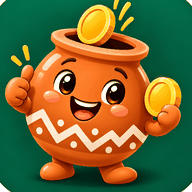
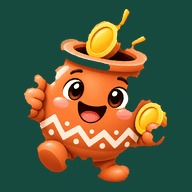
Le nouveau dessin du canari, partout dans l'appli
Le propriétaire a fourni une planche du personnage en cinq humeurs, sur un
fond dégradé. Les images de l'appli sont refaites à partir de là.

LE DÉTOURAGE. Le fond de la planche est un dégradé chaud dont le halo doré
appartient à la même famille de couleurs que la jarre : un filtre de couleur
ne sépare rien. On se sert plutôt de ce qu'un dégradé varie lentement, et que
la lueur peinte autour des pièces est floue elle aussi : on floute très fort,
on soustrait, et il ne reste que ce qui change vite, c'est-à-dire le
personnage. Le seuil suit la clarté locale (entre 11 et 18) parce que le pied
gauche du grand personnage tombe dans le coin sombre de la planche, où orange
sur brun ne creuse qu'une petite différence : un seuil unique le coupait en
deux. Le contour est enfin rogné de quatre pixels — mieux vaut mordre un
cheveu sur le dessin que garder un liseré de fond brun.

LES IMAGES. Chaque mascotte garde les proportions de son ancien cadre, donc
aucune mise en page ne bouge, sauf le héros (360 × 434 au lieu de 360 × 459,
deux attributs de hauteur corrigés dans index.html). Le personnage est mis à
l'échelle sur sa hauteur : celui qui a les bras repliés est plus étroit et
paraîtrait sinon plus grand, puisque l'appli fixe la largeur.

L'icône passe au vert de la marque #174A3F, celui du manifeste et de l'écran
de démarrage : l'icône et le démarrage sont maintenant du même vert.

LA CHAÎNE EST REPRODUCTIBLE. store/ contient la planche d'origine, les cinq
[…]

diff --git a/store/preview.html b/store/preview.html
@@ -1,0 +1,95 @@
+<!doctype html>
+<html lang="fr">
+<head>
+<meta charset="utf-8">
+<title>Visuels de la fiche Play Store</title>
+<!-- Sert à fabriquer store/banniere-1024x500.png et store/capture-1..5.png
+     à partir des captures brutes store/ecran-*.png. Ne fait pas partie de l'appli. -->
+<style>
+  /* Les polices de l'appli, celles du dossier « polices » : pas d'internet ici. */
+  @font-face { font-family: "Fredoka"; src: url("../app/polices/fredoka.woff2") format("woff2"); font-weight: 300 700; }
+  @font-face { font-family: "Rubik"; src: url("../app/polices/rubik.woff2") format("woff2"); font-weight: 300 900; }
+  :root {
+    --olive-700: #4E5B39;
+    --olive-900: #2F3823;
+    --ivoire: #FBF8F1;
+    --sable: #F2EDE1;
+    --ocre-600: #A96F3E;
+  }
+  * { box-sizing: border-box; margin: 0; }
+  body { background: #777; padding: 24px; display: flex; flex-direction: column; gap: 24px; align-items: flex-start; }
+
+  /* La bannière du haut de la fiche : 1024 × 500. */
+  #banniere {
+    width: 1024px; height: 500px;
+    background: var(--olive-700);
+    display: flex; align-items: center; gap: 48px;
+    padding: 0 72px;
+    overflow: hidden; position: relative;
+  }
+  #banniere::before {
+    content: ""; position: absolute; inset: 0;
+    background-image: radial-gradient(circle at 78% 22%, rgba(176, 138, 78, .35), transparent 55%);
+  }
+  #banniere img { width: 260px; height: auto; position: relative; filter: drop-shadow(0 16px 30px rgba(0, 0, 0, .35)); }
+  .b-texte { position: relative; color: var(--ivoire); }
+  .b-nom { font-family: "Fredoka", sans-serif; font-weight: 600; font-size: 104px; line-height: 1; }
+  .b-slogan { font-family: "Fredoka", sans-serif; font-weight: 500; font-size: 44px; color: #E9C98A; margin-top: 10px; }
+  .b-sous { font-family: "Rubik", sans-serif; font-size: 30px; margin-top: 22px; line-height: 1.4; opacity: .95; }
+
+  /* Les captures : 1080 × 1920, bandeau de titre puis l'écran de l'appli. */
+  .slide {
+    width: 1080px; height: 1920px;
+    background: var(--sable);
+    display: flex; flex-direction: column; align-items: center;
+    overflow: hidden;
+  }
+  .s-bandeau {
+    width: 100%; background: var(--olive-700); color: var(--ivoire);
+    padding: 54px 60px 58px; text-align: center;
+  }
+  .s-bandeau p {
+    font-family: "Fredoka", sans-serif; font-weight: 600; font-size: 62px; line-height: 1.15;
+    text-wrap: balance;
+  }
+  .s-ecran { width: 1080px; height: auto; display: block; }
+</style>
+</head>
+<body>
+
+<div id="banniere">
+  <img src="../app/icones/mascotte-canari-3d.webp" alt="">
+  <div class="b-texte">
+    <div class="b-nom">canari</div>
+    <div class="b-slogan">Tu vends. Canari compte.</div>
+    <div class="b-sous">Le carnet de caisse de ta boutique.<br>Sans internet. Sans publicité.</div>
+  </div>
+</div>
+
+<div class="slide" id="s1">
+  <div class="s-bandeau"><p>Ton bénéfice du jour, sans calculer</p></div>
+  <img class="s-ecran" src="ecran-1-jour.png" alt="">
+</div>
+
+<div class="slide" id="s2">
+  <div class="s-bandeau"><p>N'oublie plus qui te doit</p></div>
+  <img class="s-ecran" src="ecran-2-credits.png" alt="">
+</div>
+
+<div class="slide" id="s3">
+  <div class="s-bandeau"><p>Relance sans te fâcher</p></div>
+  <img class="s-ecran" src="ecran-3-relances.png" alt="">
+</div>
+
+<div class="slide" id="s4">
+  <div class="s-bandeau"><p>Tes chiffres, expliqués</p></div>
+  <img class="s-ecran" src="ecran-4-tableau.png" alt="">
+</div>
+
+<div class="slide" id="s5">
+  <div class="s-bandeau"><p>Une facture propre, en deux secondes</p></div>
+  <img class="s-ecran" src="ecran-5-facture.png" alt="">
+</div>
+
+</body>
+</html>

diff --git a/app/index.html b/app/index.html
@@ -17,7 +17,7 @@
 <!-- Écran d'accueil (première ouverture) -->
 <section id="accueil" class="ecran accueil" hidden>
   <div class="accueil-centre">
-    <img class="accueil-mascotte" src="icones/mascotte-canari-3d.webp" width="180" height="230" alt="Petit Canari, la jarre souriante">
+    <img class="accueil-mascotte" src="icones/mascotte-canari-3d.webp" width="180" height="217" alt="Petit Canari, la jarre souriante">
     <h1 class="logo">canari</h1>
     <p class="slogan">Tu vends. Canari compte.</p>
     <p class="accueil-texte">Ton carnet de caisse sur le téléphone. Ventes, dépenses, crédits : tout est noté, même sans internet.</p>
@@ -434,7 +434,7 @@
       <svg viewBox="0 0 24 24" aria-hidden="true"><path d="M6 6l12 12M18 6 6 18"/></svg></button>
   </header>
   <div class="param-corps">
-    <img id="param-image" src="icones/mascotte-canari-3d.webp" width="120" height="150" alt="">
+    <img id="param-image" src="icones/mascotte-canari-3d.webp" width="120" height="145" alt="">
     <h1 class="titre-ecran" id="param-titre"></h1>
     <div id="param-contenu"></div>
   </div>

diff --git a/app/sw.js b/app/sw.js
@@ -2,7 +2,7 @@
 // L'appli s'ouvre toujours depuis la copie du téléphone (rapide, même sans internet),
 // puis la copie est mise à jour en arrière-plan quand internet est là.
 // Change VERSION quand la liste des fichiers change.
-const VERSION = "canari-v49";
+const VERSION = "canari-v50";
 const FICHIERS = [
   "./",
   "index.html",

diff --git a/store/fabriquer-images.py b/store/fabriquer-images.py
@@ -1,0 +1,68 @@
+"""Fabrique les images de Canari à partir des cinq découpes du nouveau dessin.
+
+Chaque mascotte est posée dans un cadre de la même forme que l'ancienne image
+(360 × 42x) : les <img> de l'appli gardent ainsi exactement leurs proportions.
+Le personnage est mis à l'échelle sur sa HAUTEUR, pas sur le cadre : sinon
+celui qui a les bras repliés (plus étroit) paraîtrait plus grand que les autres
+alors que l'appli fixe la largeur et laisse la hauteur suivre.
+
+L'icône de l'appli reprend le fond vert de la marque (#174A3F, celui du
+manifeste et de l'écran de démarrage) avec la jarre qui lève le pouce.
+"""
+import os
+from PIL import Image
+
+SOURCE = "decoupes"
+CIBLE = "../app/icones"
+VERT = (23, 74, 63)          # --vert-foret, comme le manifeste
+
+# fichier → (découpe, largeur, hauteur) ; mêmes dimensions que les anciennes images
+MASCOTTES = {
+    "mascotte-canari-3d": ("joyeux", 360, 434),  # le héros garde ses propres proportions
+    "canari-clin-doeil":  ("clin-doeil", 360, 422),
+    "canari-yeux-fermes": ("yeux-fermes", 360, 428),
+    "canari-tranquille":  ("tranquille", 360, 428),
+    "canari-pensif":      ("pensif", 360, 429),
+}
+
+def poser(perso, largeur, hauteur, marge=0.03, fond=None, bas=True, sur_hauteur=False):
+    """Met le personnage dans un cadre donné, centré, posé sur le bas."""
+    dispo_l, dispo_h = largeur * (1 - 2 * marge), hauteur * (1 - 2 * marge)
+    k = dispo_h / perso.height if sur_hauteur else min(dispo_l / perso.width, dispo_h / perso.height)
+    k = min(k, dispo_l / perso.width)
+    p = perso.resize((max(1, round(perso.width * k)), max(1, round(perso.height * k))), Image.LANCZOS)
+    cadre = Image.new("RGBA", (largeur, hauteur), (fond + (255,)) if fond else (0, 0, 0, 0))
+    y = hauteur - round(hauteur * marge) - p.height if bas else (hauteur - p.height) // 2
+    cadre.alpha_composite(p, ((largeur - p.width) // 2, y))
+    return cadre
+
+def enregistrer_webp(im, chemin, qualite=82):
+    im.save(chemin, "WEBP", quality=qualite, method=6)
+    return os.path.getsize(chemin)
+
+decoupes = {n: Image.open(f"{SOURCE}/{n}.png") for n in
+            ["joyeux", "clin-doeil", "yeux-fermes", "tranquille", "pensif"]}
+
+for nom, (decoupe, l, h) in MASCOTTES.items():
+    im = poser(decoupes[decoupe], l, h, sur_hauteur=True)
+    print(nom.ljust(20), f"{l}×{h}", round(enregistrer_webp(im, f"{CIBLE}/{nom}.webp") / 1024, 1), "Ko")
+
+# L'avatar carré des messages : fond vert, comme avant.
+joyeux = poser(decoupes["joyeux"], 360, 360, marge=0.04, fond=VERT).convert("RGB")
+print("canari-joyeux".ljust(20), "360×360", round(enregistrer_webp(joyeux, f"{CIBLE}/canari-joyeux.webp") / 1024, 1), "Ko")
+
+# Les icônes de l'appli : fond vert plein (Android arrondit lui-même).
+for taille in (180, 192, 512):
+    ic = poser(decoupes["joyeux"], taille, taille, marge=0.05, fond=VERT).convert("RGB")
+    ic = ic.quantize(colors=200, method=Image.MEDIANCUT)
+    ic.save(f"{CIBLE}/icone-{taille}.png", optimize=True)
+    print(f"icone-{taille}".ljust(20), f"{taille}×{taille}",
+          round(os.path.getsize(f"{CIBLE}/icone-{taille}.png") / 1024, 1), "Ko")
+
+# L'icône « maskable » : Android peut rogner jusqu'à 20 % sur les bords,
+# le personnage doit donc tenir dans le cercle du milieu.
+mask = poser(decoupes["joyeux"], 512, 512, marge=0.14, fond=VERT).convert("RGB")
+mask = mask.quantize(colors=200, method=Image.MEDIANCUT)
+mask.save(f"{CIBLE}/icone-maskable-512.png", optimize=True)
+print("icone-maskable-512".ljust(20), "512×512",
+      round(os.path.getsize(f"{CIBLE}/icone-maskable-512.png") / 1024, 1), "Ko")

diff --git a/store/detourer-mascotte.py b/store/detourer-mascotte.py
@@ -1,0 +1,69 @@
+"""Découpe la planche du canari et enlève le fond : cinq images transparentes.
+
+Le fond de cette planche est un DÉGRADÉ chaud (presque noir dans les coins, halo
+doré derrière les personnages). On ne peut pas l'enlever par la couleur : son halo
+est proche de l'orange du personnage et du jaune des pièces.
+
+Ce qui le trahit, c'est qu'un dégradé ne varie que très lentement, et que la lueur
+peinte autour des pièces est floue elle aussi. On floute donc l'image très fort
+(rayon 45) pour obtenir le fond seul, on le soustrait, et il ne reste que ce qui
+change vite : le personnage, ses traits, ses éclats.
+
+Le seuil de cet écart suit la CLARTÉ du fond à cet endroit (un septième de sa
+valeur, entre 11 et 18) : le pied gauche du grand personnage se trouve dans le
+coin sombre de la planche, où orange sur brun ne creuse qu'une petite différence
+— un seuil unique le coupait en deux. On referme ensuite les fentes du
+contour (rayon 13, la plus petite valeur qui remplisse le corps d'un bout à
+l'autre), on rebouche l'intérieur, puis on rogne quatre pixels : mieux vaut
+mordre un cheveu sur le dessin que garder un liseré de fond brun autour. Le bord
+est enfin adouci au flou (rayon 2,2) : sans lui il resterait en dents de scie,
+là où le personnage se détache mal du coin sombre de la planche.
+
+Les cinq personnages sont ensuite séparés par des lignes de coupe passant là où la
+planche est vide (mesuré : y = 497 au milieu, y = 485 à droite).
+"""
+import numpy as np
+from PIL import Image
+from scipy import ndimage
+
+SOURCE = "planche-canari.png"   # la planche de dessins fournie par le propriétaire
+PANNEAUX = {
+    "joyeux":      (20, 10, 800, 1010),      # grand : pouce levé, pièce, il marche
+    "clin-doeil":  (720, 10, 1150, 497),     # clin d'œil, pouce levé
+    "yeux-fermes": (1150, 10, 1530, 485),    # bras levés, yeux fermés
+    "tranquille":  (720, 497, 1150, 1015),   # bras croisés, paisible
+    "pensif":      (1150, 485, 1530, 1015),  # assis, main sur la joue
+}
+
+def disque(r):
+    y, x = np.ogrid[-r:r + 1, -r:r + 1]
+    return x * x + y * y <= r * r
+
+def silhouettes(im, flou=45, part=0.14, mini=11, maxi=18, fente=13, rognage=4):
+    gris = np.asarray(im.convert("RGB")).astype(float).mean(2)
+    fond = ndimage.gaussian_filter(gris, flou)
+    ecart = np.abs(gris - fond)                       # le dégradé s'annule
+    seuil = np.clip(part * fond, mini, maxi)          # plus bas là où la planche est sombre
+    m = ndimage.binary_fill_holes(ndimage.binary_closing(ecart > seuil, disque(fente)))
+    return ndimage.binary_erosion(m, disque(rognage))
+
+src = Image.open(SOURCE)
+rgb = np.asarray(src.convert("RGB"))
+masque = silhouettes(src)
+
+for nom, (x0, y0, x1, y1) in PANNEAUX.items():
+    part = np.zeros(masque.shape, bool)
+    part[y0:y1, x0:x1] = masque[y0:y1, x0:x1]
+    # Dans chaque panneau on ne garde que le personnage : les morceaux du voisin
+    # coupés par la ligne sont jetés. Ses éclats jaunes tiennent à sa pièce, donc
+    # ils font partie du même bloc et restent.
+    et, n = ndimage.label(part)
+    if n:
+        t = ndimage.sum(part, et, range(1, n + 1))
+        part = et == int(np.argmax(t)) + 1
+    doux = ndimage.gaussian_filter(part.astype(np.float32), 2.2)
+    alpha = np.clip((doux - 0.5) / 0.18 + 0.5, 0, 1)
+    im = Image.fromarray(np.dstack([rgb, (alpha * 255).astype(np.uint8)]), "RGBA")
+    im = im.crop(im.getchannel("A").getbbox())
+    im.save(f"decoupes/{nom}.png")
+    print(nom.ljust(14), "->", im.size)

diff --git a/CLAUDE.md b/CLAUDE.md
@@ -62,12 +62,11 @@ Concurrents étudiés : Djago (Côte d'Ivoire), Keiwa, NAFA ERP, OkCredit, Khata
   **« Pris pour la maison » garde l'ardoise** : ce n'est pas une perte, c'est de l'argent qui change de poche (c'est la séparation boutique / maison, un de nos avantages).
   **Comment le rouge est posé** : quand le montant est seul dans son élément (`<strong>`, `<b>`, `<td>`, `.barre-valeur`), il reçoit la classe `m-negatif` ou `m-sort`. Quand le montant est au milieu d'une phrase, c'est **toute la phrase** qui passe en rouge (classe `negatif` sur le `<p>`) : couper la phrase en deux pour colorer le seul nombre empêcherait la traduction anglaise (`EN_MOTIFS`) de la reconnaître. **Règle pour la suite** : tout nouveau montant négatif ou sortie d'argent suit cette règle ; ne jamais couper une phrase traduite pour colorer un nombre.
   Le signe moins est collé au montant par une espace insécable (`−\u00a0`) : sinon il se retrouve seul sur sa ligne dans les petites cases.
-- **Icône de l'appli** : `images/canari-joyeux.png` (jarre souriante, pièce qui tombe, fond vert). Une version simplifiée du personnage 3D pourra la remplacer.
-- **Mascotte « Petit Canari »** : `images/mascotte-canari-3d.png`. À utiliser sur l'écran d'accueil, les écrans vides, les messages de réussite. Humeurs :
-  - joyeux (`canari-joyeux.png`) : bon gain, vente enregistrée ;
-  - clin d'œil (`canari-clin-doeil.png`) : relances ;
-  - yeux fermés, grand sourire (`canari-yeux-fermes.png`) : bonne journée, objectif atteint ;
-  - tranquille (`canari-tranquille.png`) : écrans neutres.
+- **La mascotte « Petit Canari » (dessin fourni par le propriétaire, en place)** : une jarre en terre cuite souriante, frise en zigzag blanche sur le ventre, une pièce d'or qui tombe dans le goulot. La planche d'origine est gardée dans `store/planche-canari.png`.
+  - **Cinq humeurs**, dans `app/icones/` : **joyeux** (`mascotte-canari-3d.webp`, pouce levé, pièce en main, il marche — l'écran d'accueil et le questionnaire), **clin d'œil** (`canari-clin-doeil.webp` — les relances), **yeux fermés** (`canari-yeux-fermes.webp` — bonne journée, objectif atteint), **tranquille** (`canari-tranquille.webp` — écrans neutres et vides), **pensif** (`canari-pensif.webp` — journée en perte, stock vide).
+  - **Icône de l'appli** : la jarre joyeuse sur le vert de la marque `#174A3F` (celui du manifeste et de l'écran de démarrage) — `icone-180/192/512.png`, plus `icone-maskable-512.png` avec 14 % de marge, parce qu'Android rogne les bords des icônes adaptatives. `canari-joyeux.webp` est la version carrée à fond vert du petit avatar des messages.
+  - **Chaque mascotte garde les proportions de son cadre** (360 × 42x) : les `<img>` de l'appli fixent la largeur et laissent la hauteur suivre, donc un personnage plus étroit (bras repliés) est mis à l'échelle sur sa **hauteur**, sinon il paraîtrait plus grand que les autres.
+  - **Refabriquer les images** (si le propriétaire fournit un nouveau dessin) : tout est dans `store/`, avec son mode d'emploi (`store/LISEZ-MOI.md`). `detourer-mascotte.py` enlève le fond de la planche, `fabriquer-images.py` remplit `app/icones/`, `captures.mjs` et `composer.mjs` refont les visuels du Play Store. **Le détourage est le morceau délicat** : le fond de la planche est un dégradé chaud dont le halo doré est de la même famille de couleurs que la jarre, donc un filtre de couleur ne marche pas. On se sert de ce qu'un dégradé varie lentement : on floute très fort, on soustrait, et il ne reste que ce qui change vite. Le seuil suit la clarté locale (entre 11 et 18) parce que le pied du personnage tombe dans le coin sombre de la planche.
 
 ## Le prototype existant
 
@@ -174,7 +173,8 @@ Comment c'est fait : `app/boutique.js` (boutique, produits, stock, choix des pro
 
 - **Stockage** : les données sont dans la base du navigateur (IndexedDB), plus dans localStorage (limité à ~5 Mo, soit ~2 ans de ventes). Les anciennes données sont déplacées automatiquement au premier lancement. Repli sur localStorage si IndexedDB n'est pas disponible.
 - **Vitesse** : les calculs (ventes par jour, stocks, dettes, listes de clients) sont gardés en mémoire jusqu'au prochain changement (`memo()` dans `app.js`, invalidé par `sauver()`). Seul l'onglet affiché est dessiné. Les historiques des clients ne sont dessinés qu'à l'ouverture. Mesure avec 1 an de données (10 400 lignes) et un processeur 6× plus lent : ouverture < 1 s, onglets < 0,3 s.
-- Icônes compressées (appli ~0,7 Mo), petits textes plus foncés, boutons ✕ et « Modifier » à 48 px.
+- Icônes compressées, petits textes plus foncés, boutons ✕ et « Modifier » à 48 px. L'appli pèse ~2,7 Mo, dont 1,7 Mo pour le lecteur de PDF (`app/vendor/pdfjs`, qui sert à accepter un logo de boutique en PDF).
+- **Règle pour la suite** : ne jamais laisser une capture d'écran de test dans `app/` — tout ce qui est là est téléchargé par chaque commerçant. Douze captures oubliées y pesaient 740 Ko, retirées le 29/09/2026.
 - Liste de vérifications sur un vrai téléphone : `docs/tests-telephone.md`.
 
 ## Paiement mobile (fait, sans contrat opérateur)

diff --git a/store/LISEZ-MOI.md b/store/LISEZ-MOI.md
@@ -1,0 +1,32 @@
+# Les visuels de la fiche Play Store
+
+Ce dossier contient ce qu'on envoie à Google, et de quoi le refabriquer.
+
+## Ce qu'on envoie
+
+| Fichier | Où il sert |
+|---|---|
+| `icone-512.png` | l'icône de la fiche |
+| `icone-maskable-512.png` | l'icône adaptative d'Android |
+| `banniere-1024x500.png` | le bandeau en haut de la fiche |
+| `capture-1.png` … `capture-5.png` | les captures d'écran (1080 × 1920) |
+
+## Comment c'est fabriqué
+
+1. **Détourer la mascotte** — `detourer-mascotte.py` découpe la planche de dessins
+   fournie par le propriétaire et enlève son fond, ce qui donne cinq images
+   transparentes (le personnage joyeux, clin d'œil, yeux fermés, tranquille,
+   pensif). Le fichier explique en détail pourquoi un simple filtre de couleur ne
+   suffit pas ici.
+2. **Fabriquer les images de l'appli** — `fabriquer-images.py` met chaque
+   découpe dans le cadre attendu par `app/icones/`, et compose les icônes sur le
+   vert de la marque.
+3. **Prendre les captures d'écran** — `captures.mjs` ouvre l'appli avec une
+   boutique de démonstration (35 jours de ventes, des crédits, un investissement)
+   et enregistre `ecran-1-jour.png` … `ecran-5-facture.png`.
+4. **Composer la fiche** — `preview.html` pose le bandeau de titre au-dessus de
+   chaque capture et dessine la bannière ; `composer.mjs` en fait les PNG finaux.
+
+Il faut un petit serveur local pour les étapes 3 et 4 (`python3 -m http.server
+8767` à la racine du projet), parce qu'une page ouverte en `file://` ne peut pas
+lire les polices ni les images d'à côté.
